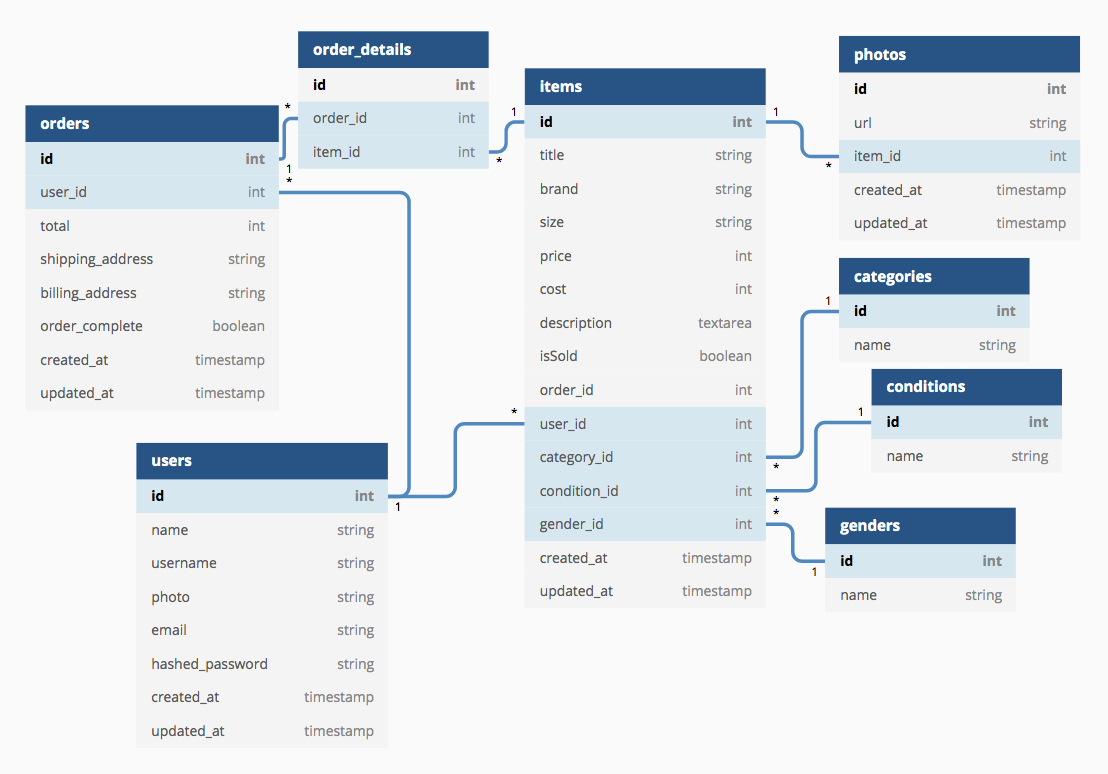
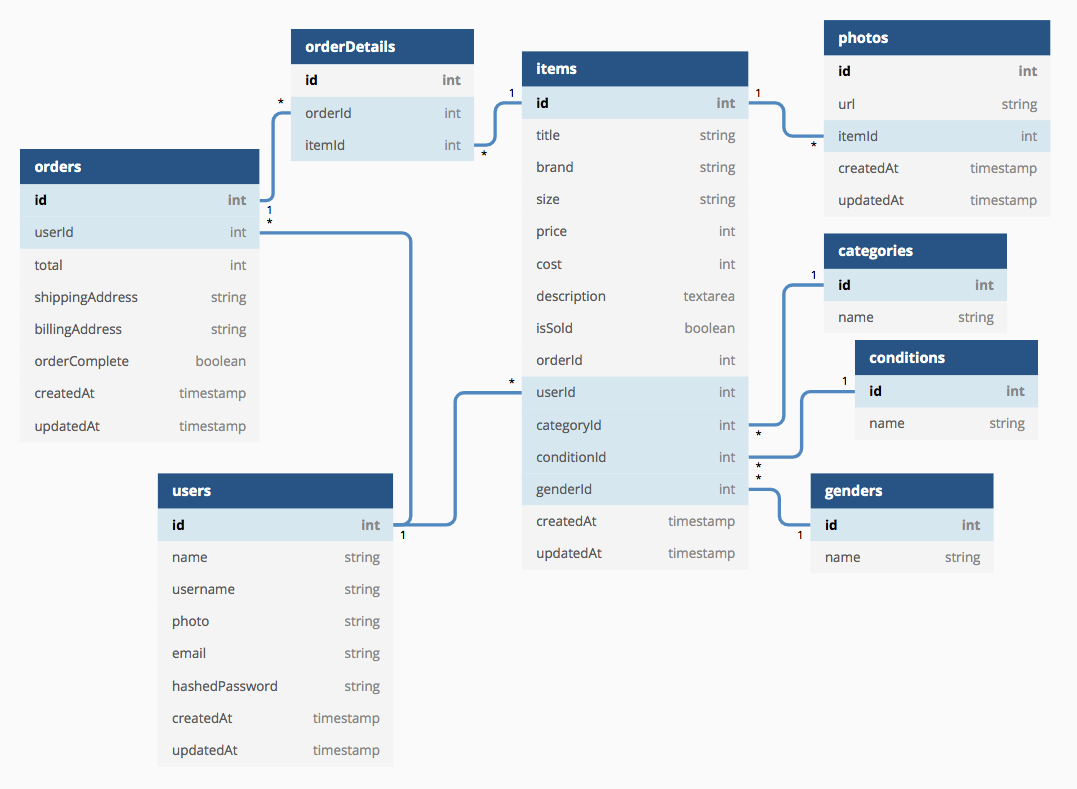
finished quintuple checking my models

Changed region(s): [[0.0, 0.0, 0.9805, 0.9612], [0.0306, 0.3721, 0.1226, 0.5581]]

diff --git a/backend/db/models/item.js b/backend/db/models/item.js
@@ -8,19 +8,25 @@ module.exports = (sequelize, DataTypes) => {
     cost: DataTypes.INTEGER,
     description: DataTypes.TEXT,
     isSold: DataTypes.BOOLEAN,
-    order_id: DataTypes.INTEGER,
-    user_id: DataTypes.INTEGER,
-    category_id: DataTypes.INTEGER,
-    condition_id: DataTypes.INTEGER,
-    gender_id: DataTypes.INTEGER
+    orderId: DataTypes.INTEGER,
+    userId: DataTypes.INTEGER,
+    categoryId: DataTypes.INTEGER,
+    conditionId: DataTypes.INTEGER,
+    genderId: DataTypes.INTEGER
   }, {});
   Item.associate = function (models) {
-    Item.hasMany(models.Order_detail, { foreignKey: 'item_id' });
-    Item.hasMany(models.Photo, { foreignKey: 'item_id' });
-    Item.belongsTo(models.User, { foreignKey: 'user_id' });
-    Item.belongsTo(models.Category, { foreignKey: 'category_id' });
-    Item.belongsTo(models.Condition, { foreignKey: 'condition_id' });
-    Item.belongsTo(models.Gender, { foreignKey: 'gender_id' });
+    const columnMapping = {
+      through: 'OrderDetail',
+      otherKey: 'orderId',
+      foreignKey: 'itemId',
+    }
+
+    Item.belongsToMany(models.OrderDetail, columnMapping);
+    Item.hasMany(models.Photo, { foreignKey: 'itemId' });
+    Item.belongsTo(models.User, { foreignKey: 'userId' });
+    Item.belongsTo(models.Category, { foreignKey: 'categoryId' });
+    Item.belongsTo(models.Condition, { foreignKey: 'conditionId' });
+    Item.belongsTo(models.Gender, { foreignKey: 'genderId' });
   };
   return Item;
 };

diff --git a/backend/db/migrations/20210330223548-create-item.js b/backend/db/migrations/20210330223548-create-item.js
@@ -34,27 +34,27 @@ module.exports = {
         defaultStatus: false,
         allowNull: false,
       },
-      order_id: {
+      orderId: {
         type: Sequelize.INTEGER,
         allowNull: false,
         references: { model: "Orders" }
       },
-      user_id: {
+      userId: {
         type: Sequelize.INTEGER,
         allowNull: false,
         references: { model: "Users" }
       },
-      category_id: {
+      categoryId: {
         type: Sequelize.INTEGER,
         allowNull: false,
         references: { model: "Categories" }
       },
-      condition_id: {
+      conditionId: {
         type: Sequelize.INTEGER,
         allowNull: false,
         references: { model: "Conditions" }
       },
-      gender_id: {
+      genderId: {
         type: Sequelize.INTEGER,
         allowNull: false,
         references: { model: "Genders" }

diff --git a/backend/db/migrations/20210330223743-create-orderDetail.js b/backend/db/migrations/20210330223743-create-orderDetail.js
@@ -1,19 +1,19 @@
 'use strict';
 module.exports = {
   up: (queryInterface, Sequelize) => {
-    return queryInterface.createTable('Order_details', {
+    return queryInterface.createTable('OrderDetails', {
       id: {
         allowNull: false,
         autoIncrement: true,
         primaryKey: true,
         type: Sequelize.INTEGER
       },
-      order_id: {
+      orderId: {
         type: Sequelize.INTEGER,
         allowNull: false,
         references: { model: "Orders" }
       },
-      item_id: {
+      itemId: {
         type: Sequelize.INTEGER,
         allowNull: false,
         references: { model: "Items" }
@@ -29,6 +29,6 @@ module.exports = {
     });
   },
   down: (queryInterface, Sequelize) => {
-    return queryInterface.dropTable('Order_details');
+    return queryInterface.dropTable('OrderDetails');
   }
 };

diff --git a/backend/db/migrations/20210330221940-create-order.js b/backend/db/migrations/20210330221940-create-order.js
@@ -8,7 +8,7 @@ module.exports = {
         primaryKey: true,
         type: Sequelize.INTEGER
       },
-      user_id: {
+      userId: {
         type: Sequelize.INTEGER,
         allowNull: false,
         references: { model: "Users" }
@@ -17,15 +17,15 @@ module.exports = {
         type: Sequelize.INTEGER,
         allowNull: false
       },
-      shipping_address: {
+      shippingAddress: {
         type: Sequelize.STRING(500),
         allowNull: false
       },
-      billing_address: {
+      billingAddress: {
         type: Sequelize.STRING(500),
         allowNull: false
       },
-      order_complete: {
+      orderComplete: {
         type: Sequelize.BOOLEAN,
         defaultStatus: false
       },

diff --git a/backend/db/models/order.js b/backend/db/models/order.js
@@ -23,7 +23,13 @@ module.exports = (sequelize, DataTypes) => {
     order_complete: DataTypes.BOOLEAN
   }, {});
   Order.associate = function (models) {
-    // associations can be defined here
+    const columnMapping = {
+      through: 'OrderDetail',
+      otherKey: 'itemId',
+      foreignKey: 'orderId',
+    }
+    Order.belongsToMany(models.OrderDetail, columnMapping);
+    Order.belongsTo(models.User, { foreignKey: 'userId' });
   };
   return Order;
 };

diff --git a/backend/db/models/orderDetail.js b/backend/db/models/orderDetail.js
@@ -1,0 +1,12 @@
+'use strict';
+module.exports = (sequelize, DataTypes) => {
+  const OrderDetail = sequelize.define('OrderDetail', {
+    orderId: DataTypes.INTEGER,
+    itemId: DataTypes.INTEGER
+  }, {});
+  OrderDetail.associate = function (models) {
+    OrderDetail.belongsTo(models.Order, { foreignKey: 'orderId' })
+    OrderDetail.belongsTo(models.Item, { foreignKey: 'itemId' })
+  };
+  return Order_detail;
+};

diff --git a/backend/db/models/photo.js b/backend/db/models/photo.js
@@ -2,10 +2,10 @@
 module.exports = (sequelize, DataTypes) => {
   const Photo = sequelize.define('Photo', {
     url: DataTypes.STRING,
-    item_id: DataTypes.INTEGER
+    itemId: DataTypes.INTEGER
   }, {});
   Photo.associate = function (models) {
-    // associations can be defined here
+    Photo.belongsTo(models.Item, { foreignKey: 'itemId' })
   };
   return Photo;
 };

diff --git a/backend/db/models/user.js b/backend/db/models/user.js
@@ -50,7 +50,8 @@ module.exports = (sequelize, DataTypes) => {
     }
   );
   User.associate = function (models) {
-    // associations can be defined here
+    User.hasMany(models.Order, { foreignKey: 'userId' })
+    User.hasMany(models.Item, { foreignKey: 'userId' })
   };
   User.prototype.toSafeObject = function () {
     // remember, this cannot be an arrow function

diff --git a/backend/db/models/condition.js b/backend/db/models/condition.js
@@ -4,7 +4,7 @@ module.exports = (sequelize, DataTypes) => {
     name: DataTypes.STRING
   }, {});
   Condition.associate = function (models) {
-    Condition.hasMany(models.Item, { foreignKey: 'category_id' });
+    Condition.hasMany(models.Item, { foreignKey: 'conditionId' });
   };
   return Condition;
 };

diff --git a/backend/db/models/category.js b/backend/db/models/category.js
@@ -4,7 +4,7 @@ module.exports = (sequelize, DataTypes) => {
     name: DataTypes.STRING
   }, {});
   Category.associate = function (models) {
-    Category.hasMany(models.Item, { foreignKey: 'category_id' });
+    Category.hasMany(models.Item, { foreignKey: 'categoryId' });
   };
   return Category;
 };

diff --git a/backend/db/models/gender.js b/backend/db/models/gender.js
@@ -4,7 +4,7 @@ module.exports = (sequelize, DataTypes) => {
     name: DataTypes.STRING
   }, {});
   Gender.associate = function (models) {
-    Gender.hasMany(models.Item, { foreignKey: 'category_id' });
+    Gender.hasMany(models.Item, { foreignKey: 'genderId' });
   };
   return Gender;
 };

diff --git a/backend/db/migrations/20210330223823-create-photo.js b/backend/db/migrations/20210330223823-create-photo.js
@@ -11,7 +11,7 @@ module.exports = {
       url: {
         type: Sequelize.STRING(1000),
       },
-      item_id: {
+      itemId: {
         type: Sequelize.INTEGER,
         allowNull: false,
         references: { model: "Items" }
